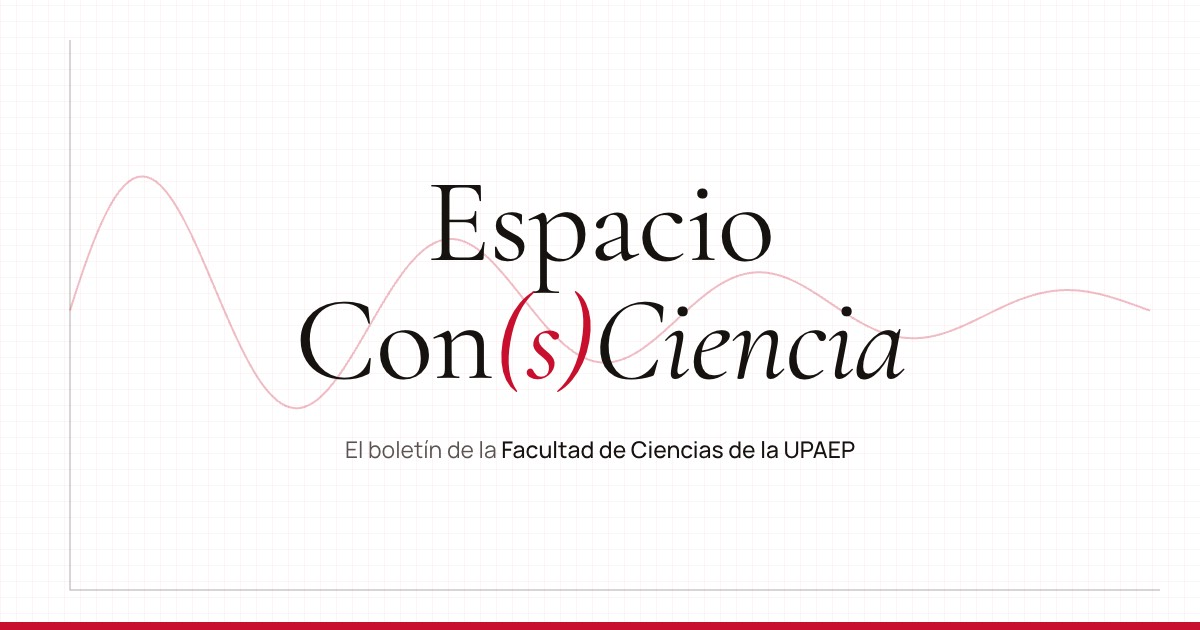
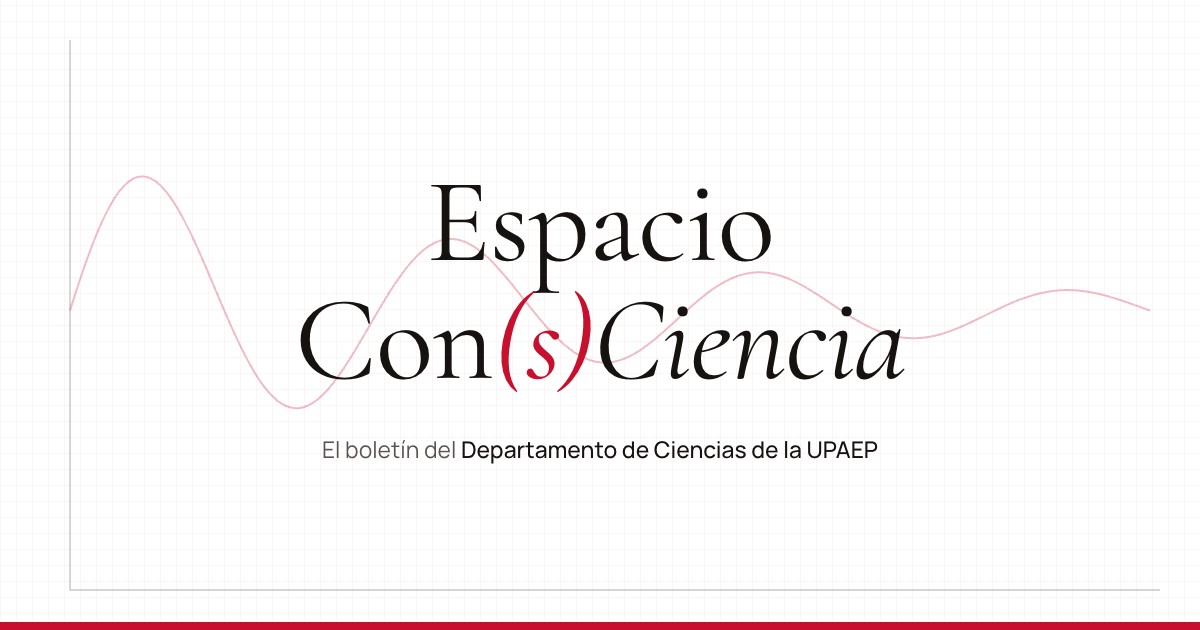
Cambia «Facultad de Ciencias» por «Departamento de Ciencias»

Changed region(s): [[0.2467, 0.6937, 0.74, 0.754]]

diff --git a/index.html b/index.html
@@ -13,25 +13,25 @@
 <meta name="theme-color" content="#C8102E">
 <!-- /parcial:head -->
 <title>Espacio Con(s)Ciencia</title>
-<meta name="description" content="El boletín de la Facultad de Ciencias de la UPAEP. Investigación, divulgación y vida académica.">
+<meta name="description" content="El boletín del Departamento de Ciencias de la UPAEP. Investigación, divulgación y vida académica.">
 <link rel="canonical" href="https://axel-meyrek.github.io/consciencia/">
 <meta property="og:type" content="website">
 <meta property="og:site_name" content="Espacio Con(s)Ciencia">
 <meta property="og:locale" content="es_MX">
 <meta property="og:title" content="Espacio Con(s)Ciencia">
-<meta property="og:description" content="El boletín de la Facultad de Ciencias de la UPAEP. Investigación, divulgación y vida académica.">
+<meta property="og:description" content="El boletín del Departamento de Ciencias de la UPAEP. Investigación, divulgación y vida académica.">
 <meta property="og:url" content="https://axel-meyrek.github.io/consciencia/">
 <meta property="og:image" content="https://axel-meyrek.github.io/consciencia/img/og/index.jpg">
 <meta property="og:image:width" content="1200">
 <meta property="og:image:height" content="630">
-<meta property="og:image:alt" content="Espacio Con(s)Ciencia, el boletín de la Facultad de Ciencias de la UPAEP">
+<meta property="og:image:alt" content="Espacio Con(s)Ciencia, el boletín del Departamento de Ciencias de la UPAEP">
 <meta name="twitter:card" content="summary_large_image">
 </head>
 <body>
 
 <div class="intro" id="intro" aria-hidden="true">
   <div class="intro-inner">
-    <p class="intro-name">Facultad de Ciencias</p>
+    <p class="intro-name">Departamento de Ciencias</p>
     <span class="intro-line"></span>
     <span class="intro-sub">UPAEP</span>
   </div>
@@ -45,7 +45,7 @@
       <span class="row">Con<span class="s">(s)</span><em>Ciencia</em></span>
     </h1>
     <p class="desc">
-      El boletín de la <strong>Facultad de Ciencias de la UPAEP</strong>. Investigación, divulgación y vida académica
+      El boletín del <strong>Departamento de Ciencias de la UPAEP</strong>. Investigación, divulgación y vida académica
     </p>
     <nav class="ctas" aria-label="Acciones principales">
       <a class="cta cta--primary" href="#numero">
